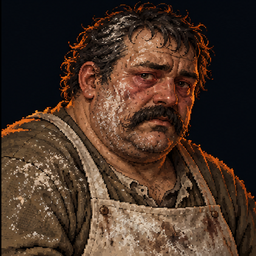
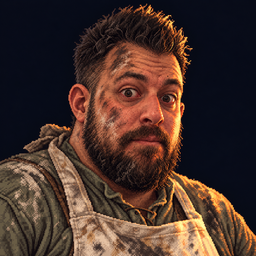
Irvolino the miller redrawn from his photo: new portrait and his own 8-pose sprite in the barn group
Claude-Session: https://claude.ai/code/session_01AybfaJNjKDb6JttqBdqtRy

diff --git a/src/view/NpcView.js b/src/view/NpcView.js
@@ -68,6 +68,8 @@ const CELLS = {
   // Nicholas, the guide: the villager's order (wave: he points the way on; cower: braced),
   // and a ninth: lying dead
   nicholas: { stand: 0, cower: 1, wave: 2, run: RUN, sit: 6, kneel: 7, lie: 8 },
+  // Irvolino, the miller: the villager's order
+  irvolino: { stand: 0, cower: 1, wave: 2, run: RUN, sit: 6, kneel: 7 },
 };
 // the mine's prisoners: the same sheets cut bigger (data/levelArt.js); the old man has no
 // run, so he hobbles on his standing pose (sinking on each step, like the run)
@@ -149,7 +151,7 @@ export class NpcView {
   // level's NPC can name its own with `art`)
   figure(g, x, y, k, pose, t, tunic, dir = 1, who) {
     who ??= 'villager';
-    if (who === 'nicholas' && !SPRITES.nicholas) who = 'villager'; // (until his sheet is painted)
+    if ((who === 'nicholas' || who === 'irvolino') && !SPRITES[who]) who = 'villager'; // (until his sheet is painted)
     if (this.sprite(g, x, y, k, pose, t, dir, who)) return true;
     const sc = k;
     const bob = pose === 'run' ? Math.abs(Math.sin(t * 0.4)) * 3 : pose === 'cower' ? Math.sin(t * 0.25) * 1 : 0;
@@ -234,7 +236,8 @@ export class NpcView {
     }
     if (n.pose === 'chained') { this.drawChained(n, v, g, y, k, t, pose, dir); return; }
     if (n.pose === 'group' || n.pose === 'convoy') {
-      for (let i = 0; i < 3; i++) this.figure(g, n.x - 30 + i * 28, y + (i % 2) * 6, k * (i === 1 ? 0.75 : 1), pose, t + i * 5, tun(i + 4), dir);
+      // (the barn's group is the miller's people: Irvolino leads them, data/speakers.js MILLER)
+      for (let i = 0; i < 3; i++) this.figure(g, n.x - 30 + i * 28, y + (i % 2) * 6, k * (i === 1 ? 0.75 : 1), pose, t + i * 5, tun(i + 4), dir, i === 0 && n.id === 'barn' ? 'irvolino' : undefined);
       return;
     }
     this.figure(g, n.x, y, k, pose, t, tun(0), dir, n.art);

diff --git a/src/data/levelArt.js b/src/data/levelArt.js
@@ -139,6 +139,10 @@ export const SPRITE_SHEETS = {
   // cowers, sit wounded) and a ninth, lying dead. Until it's painted he walks on the
   // villager sheet.
   nicholas: { file: 'assets/sprites/npc/nicholas.png', frames: 9, height: 210 },
+  // Irvolino, the miller (made in ChatGPT from his photo: docs/irvolino-art-prompts.md): the
+  // villager sheet's 8 poses. He leads the miller's people out of the barn; until he's
+  // painted he's the villager.
+  irvolino: { file: 'assets/sprites/npc/irvolino.png', frames: 8, height: 150 },
   // Vincent, the Gatewright (view/VincentView.js; made in ChatGPT from his photo:
   // docs/vincent-art-prompts.md): stand, grip the bars, crank, aim, loose, walk x3, wave
   vincent: { file: 'assets/sprites/npc/vincent.png', frames: 9, height: 205 },

diff --git a/docs/irvolino-art-prompts.md b/docs/irvolino-art-prompts.md
@@ -1,0 +1,81 @@
+# Irvolino, the miller: ChatGPT prompt pack
+
+Nick (15 October 2026), with a photo: "This is Irvolino he's an npc in the game fix his art to
+represent him".
+
+**The role.** Irvolino is the miller in THE BURNING VILLAGE (level 1). The Ashen shut him and
+his people in the barn and fired it; the heroes clear the wreckage from the door, and he
+gasps "Air... Thank the old gods. We will run for the north gate." (`data/stageVillage.js`,
+npc `barn`; speaker `MILLER` in `data/speakers.js`). He's in two places: his portrait in the
+dialogue box, and the front man of the three who come out of the barn (`view/NpcView.js`,
+the `group` pose; the other two stay villagers).
+
+**His likeness** comes from his photo (project files `irvolino-npc/irvolino-photo.jpeg`;
+attach it to both prompts). It isn't in the repo, so it stays private. Keep these from the
+photo: thick, short, dark brown-black hair, short at the sides and standing up messy on top,
+the hairline a little high at the temples; heavy dark straight eyebrows; big round dark-brown
+eyes, wide open; a broad, round, full face with heavy cheeks; ears that stand out a little; a
+broad nose with a round tip; a full, thick, dark beard and moustache, trimmed fairly short and
+fuller at the chin, with a warm reddish-brown tint around the mouth; a big, heavy-set build.
+He's in his thirties. Keep his wide-eyed, startled look: he has just been pulled out of a
+burning barn.
+
+**His outfit** (both images): a miller's work clothes, a nod to the pale mint sweatshirt in
+the photo: a loose faded pale sage-green linen shirt, sleeves pushed up, under a heavy canvas
+apron white with flour, a rope belt, brown wool trousers, wrapped shins and worn boots. Flour
+and soot on his face, hands and apron.
+
+## 1. The portrait: `assets/ui/portraits/irvolino.png`
+
+Square (cut to 256). It goes in the dialogue box like the others (`docs/portrait-art-prompts.md`,
+same style line). If the portraits chat is already open in ChatGPT, send it there so the style
+matches the rest.
+
+> Square bust portrait for a dark-fantasy pixel-art game's dialogue box. Head and
+> shoulders, three-quarter view, facing right, looking toward the viewer. Detailed 16-bit
+> style pixel art like a modern SNES-inspired RPG, painterly shading, strong rim light,
+> rich but grim colours. Plain very dark background (near black, slight navy), no frame,
+> no text, no border. Medieval world burned by a tyrant king; everyone looks tired, dirty
+> and hard-worn.
+>
+> Irvolino, the village miller, a heavy-set man in his thirties, drawn as the man in the
+> attached photo: the same face. Thick short dark brown-black hair, short at the sides and
+> standing up messy on top, a slightly high hairline at the temples; heavy dark straight
+> eyebrows; big round dark-brown eyes, wide open; a broad round full face with heavy cheeks;
+> ears that stand out a little; a broad nose with a round tip; a full thick dark beard and
+> moustache, trimmed fairly short, fuller at the chin, warm reddish-brown around the mouth.
+> A faded pale sage-green linen shirt under a canvas apron white with flour. Flour and soot
+> on his face, red-rimmed eyes from the smoke. Wide-eyed and gasping with relief: he has just
+> been dragged out of a burning barn.
+
+## 2. The sprite sheet: `assets/sprites/npc/irvolino.png`
+
+One row of **8 poses on plain black**, facing right, nothing touching, in the same painted
+style, size and order as `assets/sprites/npc/villager.png` (attach it, and the photo). The
+game cuts the row into 8 equal cells and scales it by the tallest pose
+(`data/levelArt.js` `SPRITE_SHEETS.irvolino`, `view/NpcView.js` `CELLS.irvolino`).
+
+> A sprite sheet for a dark-fantasy pixel-art brawler: one row of 8 poses of the same man,
+> full body, side view facing right, on a plain black background, evenly spaced, nothing
+> touching, no ground line, no text. Match the attached villager sheet exactly in painted
+> pixel-art style, size, lighting and pose order.
+>
+> The man is Irvolino, the village miller, drawn as the man in the attached photo: the same
+> face. A big heavy-set man in his thirties, thick short dark brown-black hair standing up
+> messy on top, heavy dark eyebrows, big round wide-open dark eyes, a broad round full face,
+> a full thick dark beard fuller at the chin. A loose faded pale sage-green linen shirt with
+> the sleeves pushed up, a heavy canvas apron white with flour, a rope belt, brown wool
+> trousers, wrapped shins, worn boots. Flour and soot all over him.
+>
+> Poses, left to right: 1 standing, startled and wary, hands half raised; 2 cowering, hunched,
+> arms over his head; 3 waving one arm high to call for help; 4-6 running hard (three frames:
+> one foot down, legs passing, the other foot down); 7 sitting on the ground, coughing, one
+> hand on his chest; 8 kneeling on both knees, looking up, hands on his thighs.
+
+## How to use
+
+1. Use the "Bloody Axe" ChatGPT project. Do the portrait in the portraits chat, and the sheet
+   in a new chat called **BA · Irvolino**, with the photo and `villager.png` attached.
+2. Save each one with the file name above it. The sheet has to be one figure per equal cell,
+   feet on one line, on black (re-pack it if ChatGPT spaces the figures unevenly). The game
+   picks up both files on the next load; until the sheet exists he's drawn as the villager.

diff --git a/docs/cloud-handoff.md b/docs/cloud-handoff.md
@@ -667,3 +667,10 @@ crispness, not size). Nothing has been run through Magnific yet; start with the 
 
 ## Cloud, 2026-10-15: second ChatGPT batch checked (not on itch)
 - Orsk's and the Gate Twins' strips (76318a4) cut cleanly in `tools/strip-check.html` at their kinds' size; tests pass. `assets/env/gallows/ground.png` had a 170 px pure-black band along its top (ChatGPT's empty "far edge"); cropped off so the floor starts at the slate. The Gallows layers have their magenta skylines; not yet seen inside the level (the headless browser still can't boot the game in time).
+
+## Cloud, 2026-10-15: Irvolino redrawn from his photo (not on itch)
+- Nick sent a photo of the real Irvolino (the miller, `MILLER` in `src/data/speakers.js`, Burning Village barn) and asked for his art to look like him.
+- **Portrait** `assets/ui/portraits/irvolino.png`: redone in ChatGPT on Nick's PC from the photo (chat "Create Pixel Art Portrait"), cut to 256 square.
+- **New sprite** `assets/sprites/npc/irvolino.png`: 8 poses in the villager sheet's order (stand, cower, wave, run x3, sit, kneel), same chat, re-packed one figure per equal cell with the feet on one line. `SPRITE_SHEETS.irvolino` (`src/data/levelArt.js`), `CELLS.irvolino` (`src/view/NpcView.js`). He's now the front man of the three who come out of the barn (the `group` pose for npc `barn`); the other two stay villagers, and without the file he falls back to the villager.
+- Raw downloads and the photo are on the PC in `assets\incoming\irvolino` (the photo is also in project files `irvolino-npc/`, not in the repo). Prompts: `docs/irvolino-art-prompts.md`.
+- Tests pass; in a headless browser both files load at boot. He hasn't been seen coming out of the barn in play yet.
